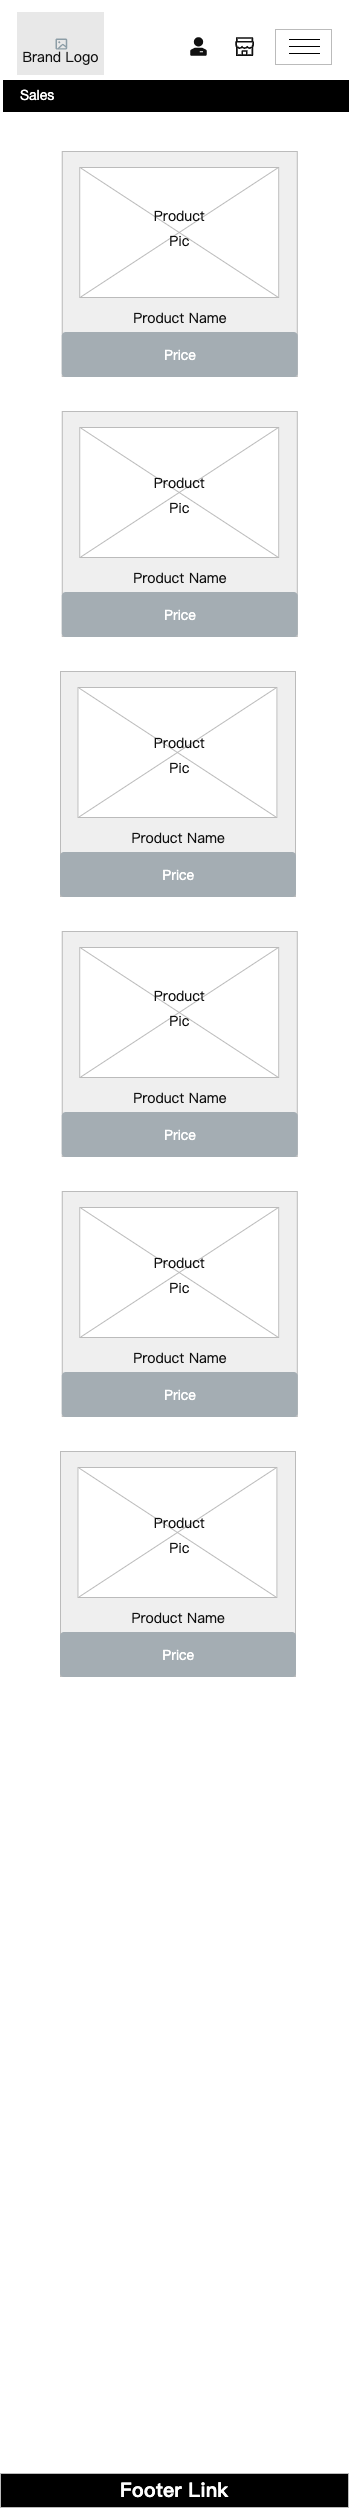
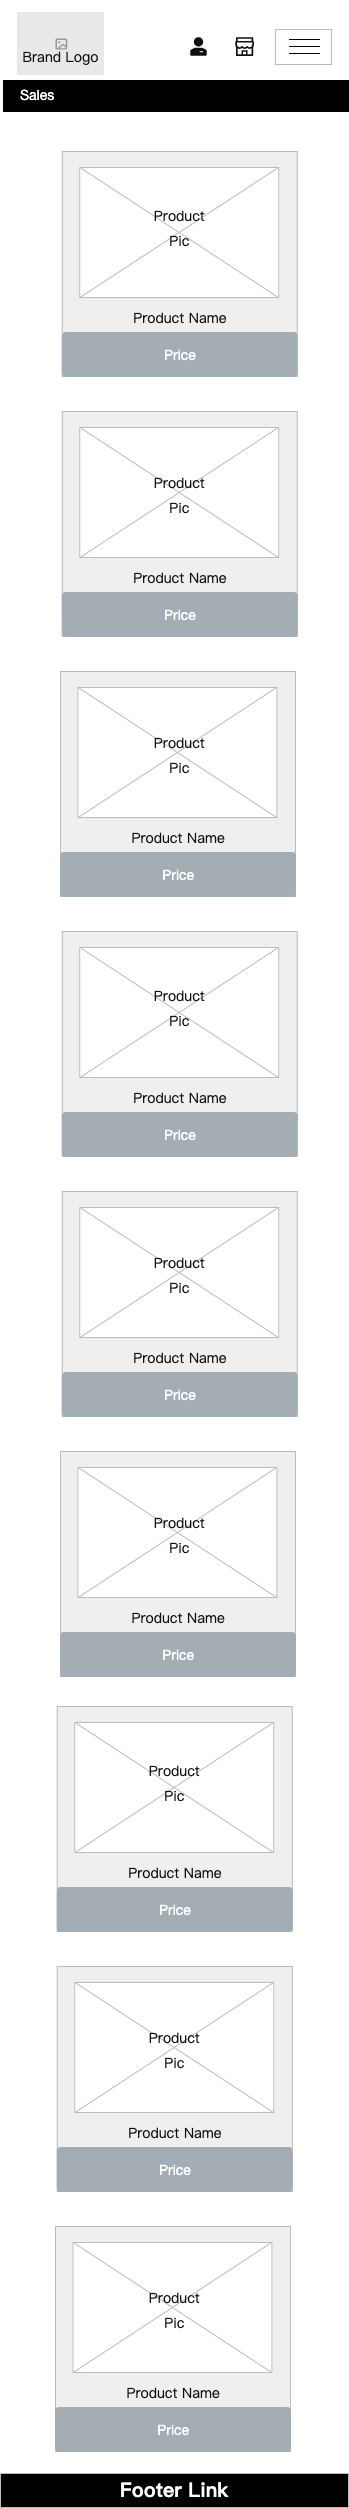
Replaced defective wireframes and added combined

Changed region(s): [[0.1433, 0.6842, 0.8596, 0.9952], [0.4298, 0.6842, 0.5444, 0.7153], [0.2006, 0.6842, 0.2292, 0.7153]]

diff --git a/products/templates/products/products.html b/products/templates/products/products.html
@@ -18,6 +18,7 @@
             <div class="row mt-1 mb-2"></div>
             <div class="row">
                 {% for product in products %}
+                    {% if product.quantity_remaining > 0 %}
                 <div class="col-sm-6 col-md-6 col-lg-4 col-xl-3">
                     <div class="card h-100 border" >
                         {% if product.image %}
@@ -70,6 +71,7 @@
                 <div class="col-12 d-none d-xl-block mb-5">
                     <hr>
                 </div>
+                {% endif %}
                 {% endif %}
                 {% endfor %}
             </div>

diff --git a/README.md b/README.md
@@ -149,41 +149,59 @@ If you look at the schema you will see the fundamental differences in the colour
 
 ## Wireframes 
 
+The Wireframes were created using Wondershare Mockitt App this was for the basic structure of the main site pages such as the ones detailed below. The only pages of exception were those that were created by some of the installed application such as the AllAuth pages for confirming emails and signing up etc. These pages were edited to conform with the general page aesthetics with button design and general look to match all the other pages of the website.   
+
+**Index/Home page:** The home page gives the site it's initial entry point and clear purpose as to what the end user is to expect. There is clear navigation to the top of the page either fully across the top or on smaller displays in a drop down navigation bar.
+
+**How To Join Page:** The how to join page is the membership page for the site. It was discussed whether it should be called the membership page as it clearly is the main purpose of this page. The Society preferred calling it 'How To Join' so I stuck with their intention. This page forms a gateway to any of the different forms that enables the user to sign up for a membership.
+
+**News Page:** The News page will populate with all the posts that the society chooses to put out to it's members.
+
+**Publications Page:** The publications page has been created to show some of the different publications that are produced by The London Omnibus Traction Society. 
+
+**Sales Page:** This is the main products sales page. It shows all the products available and is going to be managed by the Society on the volume of stock for each product.
+
+
+**About Us Page:** This page has a small amount of history of the society and brief amount of information about their publications.
+
+**Links Page:** These are all relevant pages that the members of the society and users of the website might be interested in.
+
+**Contact Us Page:** The contact us page is used for communication purposes from website users to the society. Included on this site is old Information Service page.
+
+
 |Pages|Mobile View|Tablet View|Desktop View|
 |---|---|---|---|
 |Index|[View](https://github.com/CodeGreg1/lots-project-ms4/blob/main/media/readme_images/wireframes/Index-Mobile.png)|[View](https://github.com/CodeGreg1/lots-project-ms4/blob/main/media/readme_images/wireframes/Index-Tablet.png)|[View](https://github.com/CodeGreg1/lots-project-ms4/blob/main/media/readme_images/wireframes/Index-Desktop.png)|
-|How To Join|[View](https://github.com/CodeGreg1/lots-project-ms4/blob/main/media/readme_images/wireframes/How-To-Join-mobile.png)|[View](https://github.com/CodeGreg1/lots-project-ms4/blob/main/media/readme_images/wireframes/How-To-Join-tablet.png)|[View](https://github.com/CodeGreg1/lots-project-ms4/blob/main/media/readme_images/wireframes/How-To-Join-Desktop.png)|
-|Publications|[View]()|[View]()|  [View]() |
-|Sales|[View]()|[View]()|[View]()|
-|About Us|[View]()|[View]()|[View]()|
-|Links|[View]()|[View]()|[View]()|
-|Contact|[View]()|[View]()|[View]()|
+|How To Join|[View](https://github.com/CodeGreg1/lots-project-ms4/blob/main/media/readme_images/wireframes/How-To-Join-Mobile.png)|[View](https://github.com/CodeGreg1/lots-project-ms4/blob/main/media/readme_images/wireframes/How-To-Join-Tablet.png)|[View](https://github.com/CodeGreg1/lots-project-ms4/blob/main/media/readme_images/wireframes/How-To-Join-Desktop.png)|
+|Publications|[View](https://github.com/CodeGreg1/lots-project-ms4/blob/main/media/readme_images/wireframes/Publications-Mobile.png)|  [View](https://github.com/CodeGreg1/lots-project-ms4/blob/main/media/readme_images/wireframes/Publications-Tablet.png)|[View](https://github.com/CodeGreg1/lots-project-ms4/blob/main/media/readme_images/wireframes/Publications-Desktop.png)|
+|Sales|[View](https://github.com/CodeGreg1/lots-project-ms4/blob/main/media/readme_images/wireframes/Sales-Mobile.png)|[View](https://github.com/CodeGreg1/lots-project-ms4/blob/main/media/readme_images/wireframes/Sales-Tablet.png)|[View](https://github.com/CodeGreg1/lots-project-ms4/blob/main/media/readme_images/wireframes/Sales-Desktop.png)|
+|News|[View](https://github.com/CodeGreg1/lots-project-ms4/blob/main/media/readme_images/wireframes/News-Mobile.png)|[View](https://github.com/CodeGreg1/lots-project-ms4/blob/main/media/readme_images/wireframes/News-Tablet.png)|[View](https://github.com/CodeGreg1/lots-project-ms4/blob/main/media/readme_images/wireframes/News-Desktop.png)|
+|About Us|[View](https://github.com/CodeGreg1/lots-project-ms4/blob/main/media/readme_images/wireframes/About-Us-Mobile.png)|[View](https://github.com/CodeGreg1/lots-project-ms4/blob/main/media/readme_images/wireframes/About-Us-Tablet.png)|[View](https://github.com/CodeGreg1/lots-project-ms4/blob/main/media/readme_images/wireframes/About-Us-Desktop.png)|
+|Links|[View](https://github.com/CodeGreg1/lots-project-ms4/blob/main/media/readme_images/wireframes/Links-Mobile.png)|[View](https://github.com/CodeGreg1/lots-project-ms4/blob/main/media/readme_images/wireframes/Links-Tablet.png)|[View](https://github.com/CodeGreg1/lots-project-ms4/blob/main/media/readme_images/wireframes/Links-Desktop.png)|
+|Contact|[View](https://github.com/CodeGreg1/lots-project-ms4/blob/main/media/readme_images/wireframes/Contact-Us-Mobile.png)|[View](https://github.com/CodeGreg1/lots-project-ms4/blob/main/media/readme_images/wireframes/Contact-Us-Tablet.png)|[View](https://github.com/CodeGreg1/lots-project-ms4/blob/main/media/readme_images/wireframes/Contact-Us-Desktop.png)|
 
--   Home Screen Wireframe - [View](https://milestone3-greg-goodrem.herokuapp.com/static/images/readme_images/home.png)
--   Login Screen Wireframe - [View](https://milestone3-greg-goodrem.herokuapp.com/static/images/readme_images/login.jpg)
--   Register Screen Wireframe - [View](https://milestone3-greg-goodrem.herokuapp.com/static/images/readme_images/register.jpg)
--   Add Client Screen Wireframe - [View](https://milestone3-greg-goodrem.herokuapp.com/static/images/readme_images/add_client.jpg)
--   Add Treatment Screen Wireframe - [View](https://milestone3-greg-goodrem.herokuapp.com/static/images/readme_images/add_treatment.jpg)
--   Edit Client Screen Wireframe - [View](https://milestone3-greg-goodrem.herokuapp.com/static/images/readme_images/edit_client.jpg)
--   Edit Treatment Screen Wireframe - [View](https://milestone3-greg-goodrem.herokuapp.com/static/images/readme_images/edit_treatment.png)
--   Treatments Screen Wireframe - [View](https://milestone3-greg-goodrem.herokuapp.com/static/images/readme_images/treatments.jpg)
--   Manage Clients Screen Wireframe - [View](https://milestone3-greg-goodrem.herokuapp.com/static/images/readme_images/manage_clients.jpg)
--   Report Screen Wireframe - [View](https://milestone3-greg-goodrem.herokuapp.com/static/images/readme_images/report.jpg)
+### Wireframes side by side
+
+
+<img src="media/readme_images/wireframes/wire-home.png"> 
+<img src="media/readme_images/wireframes/wire-join.png"> 
+<img src="media/readme_images/wireframes/wire-pubs.png"> 
+<img src="media/readme_images/wireframes/wire-sales.png"> 
+<img src="media/readme_images/wireframes/wire-news.png"> 
+<img src="media/readme_images/wireframes/wire-about.png"> 
+<img src="media/readme_images/wireframes/wire-links.png"> 
+<img src="media/readme_images/wireframes/wire-contact.png">
+
 
 <br>
 <a name='responsive'/>
 
 ## Responsive Design Features 
--   The App has been made to be responsive on varying sized screens.
--   The App will resize from the screen of a mobile phone all the way to a full desktop display.
--   Its intended use is for the therapist to generally use a computer or tablet device to input informaion and the end user (Client) to review on their phones.
--   Even though the intended use is as stated it can still be used on a mobile by a therapist if required.
--   The treatment advice and notes are immediately available to the client after their session.
--   The treatments and clients can be edited and deleted. The delete function has a modal setup so people don't accidently delete treatments or clients.  
--   The reports page keeps track of trends with overall numbers of clients and treatments on different areas oof the body.
--   Individually you can review treatments of clients and how many they've had on different areas of the body. This can help out for returning clients and reviewing previous sessions.
--   The booking system has been embeded using an iframe and automatically filling the name and email data from the users own information. 
--   The booking system automatically emails out to the client confirmation of appointment.
+-   The website has been made to be responsive on varying sized screens.
+-   The website will resize from the screen of a mobile phone all the way to a full desktop display.
+-   It is intended use is for potential members to come and view the site and options for annual membership and publication sales.
+-   It is also for current members to visit and see the news updates.
+-   Another usage is for the society to be able to administrate the posts and products as and when they please.
 
 <br>        
 <a name='future'/>
@@ -201,7 +219,15 @@ If you look at the schema you will see the fundamental differences in the colour
 -   [CSS3](https://en.wikipedia.org/wiki/Cascading_Style_Sheets)
 -   [Javascript](https://en.wikipedia.org/wiki/javascript)
 -   [Python](https://en.wikipedia.org/wiki/Python_(programming_language))
--   [Jinja](https://en.wikipedia.org/wiki/Jinja_(template_engine))
+-   [Django](https://docs.djangoproject.com/en/4.1/)
+
+HTML, CSS, JavaScript, Python+Django
+
+Relational database (recommending MySQL or PostgreSQL)
+
+Stripe payments
+
+Additional libraries and APIs
 
 <br>
 <a name='frameworks'/>
@@ -216,14 +242,19 @@ If you look at the schema you will see the fundamental differences in the colour
     - Git was used for version control by utilizing the terminal to commit to Git and Push to GitHub.
 - [GitHub:](https://github.com/)
     - GitHub is used to store the projects code after being pushed from Git.
-- [Wondershare Mockitt:](https://balsamiq.com/)
+- [Wondershare Mockitt:]()
     - Balsamiq was used to create the wireframes during the design process.
 - [EmailJS](https://www.emailjs.com/)
 - I used EmailJS to enable free emailing to the therapist on the home page.
 - [GoCardless]
-- []
+- [PostgreSQL]
+- [Bootstrap]
+- [Heroku]
+- [Stripe]
+- [DbSchema]
+- [ElephantSQL]
+- [AmazonAWS]
 
-- [MongoDB](https://www.mongodb.com/)
     - I used MongoDB as the database for storing information gathered in the app.
 
     <br>
